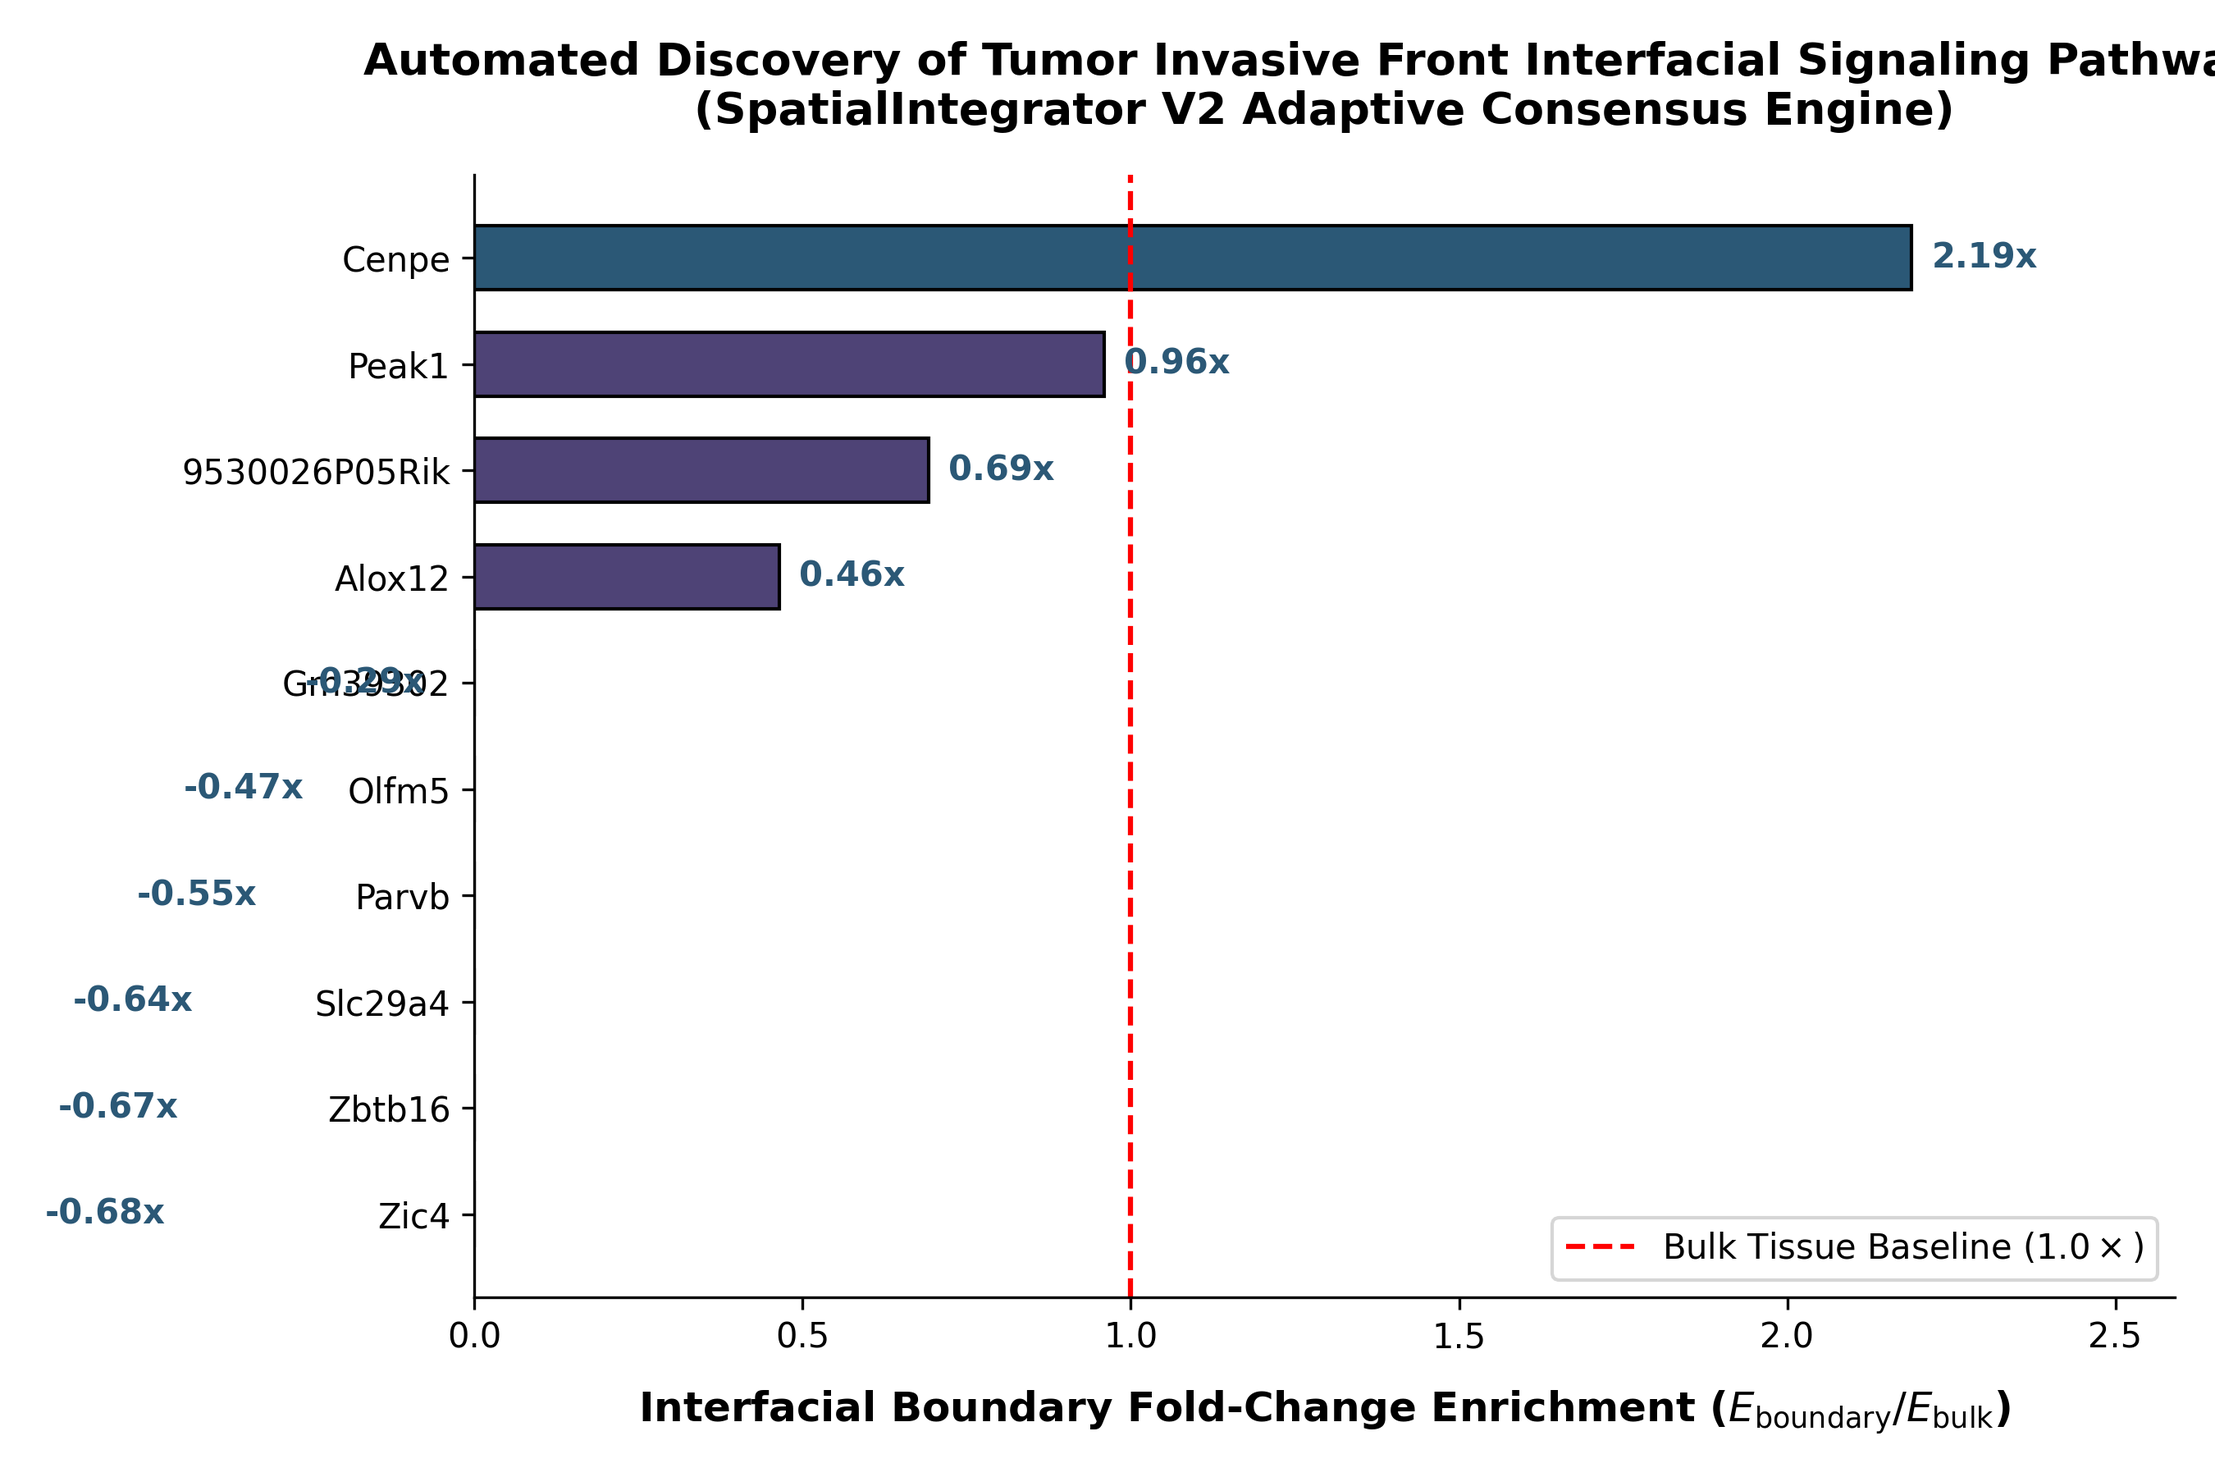
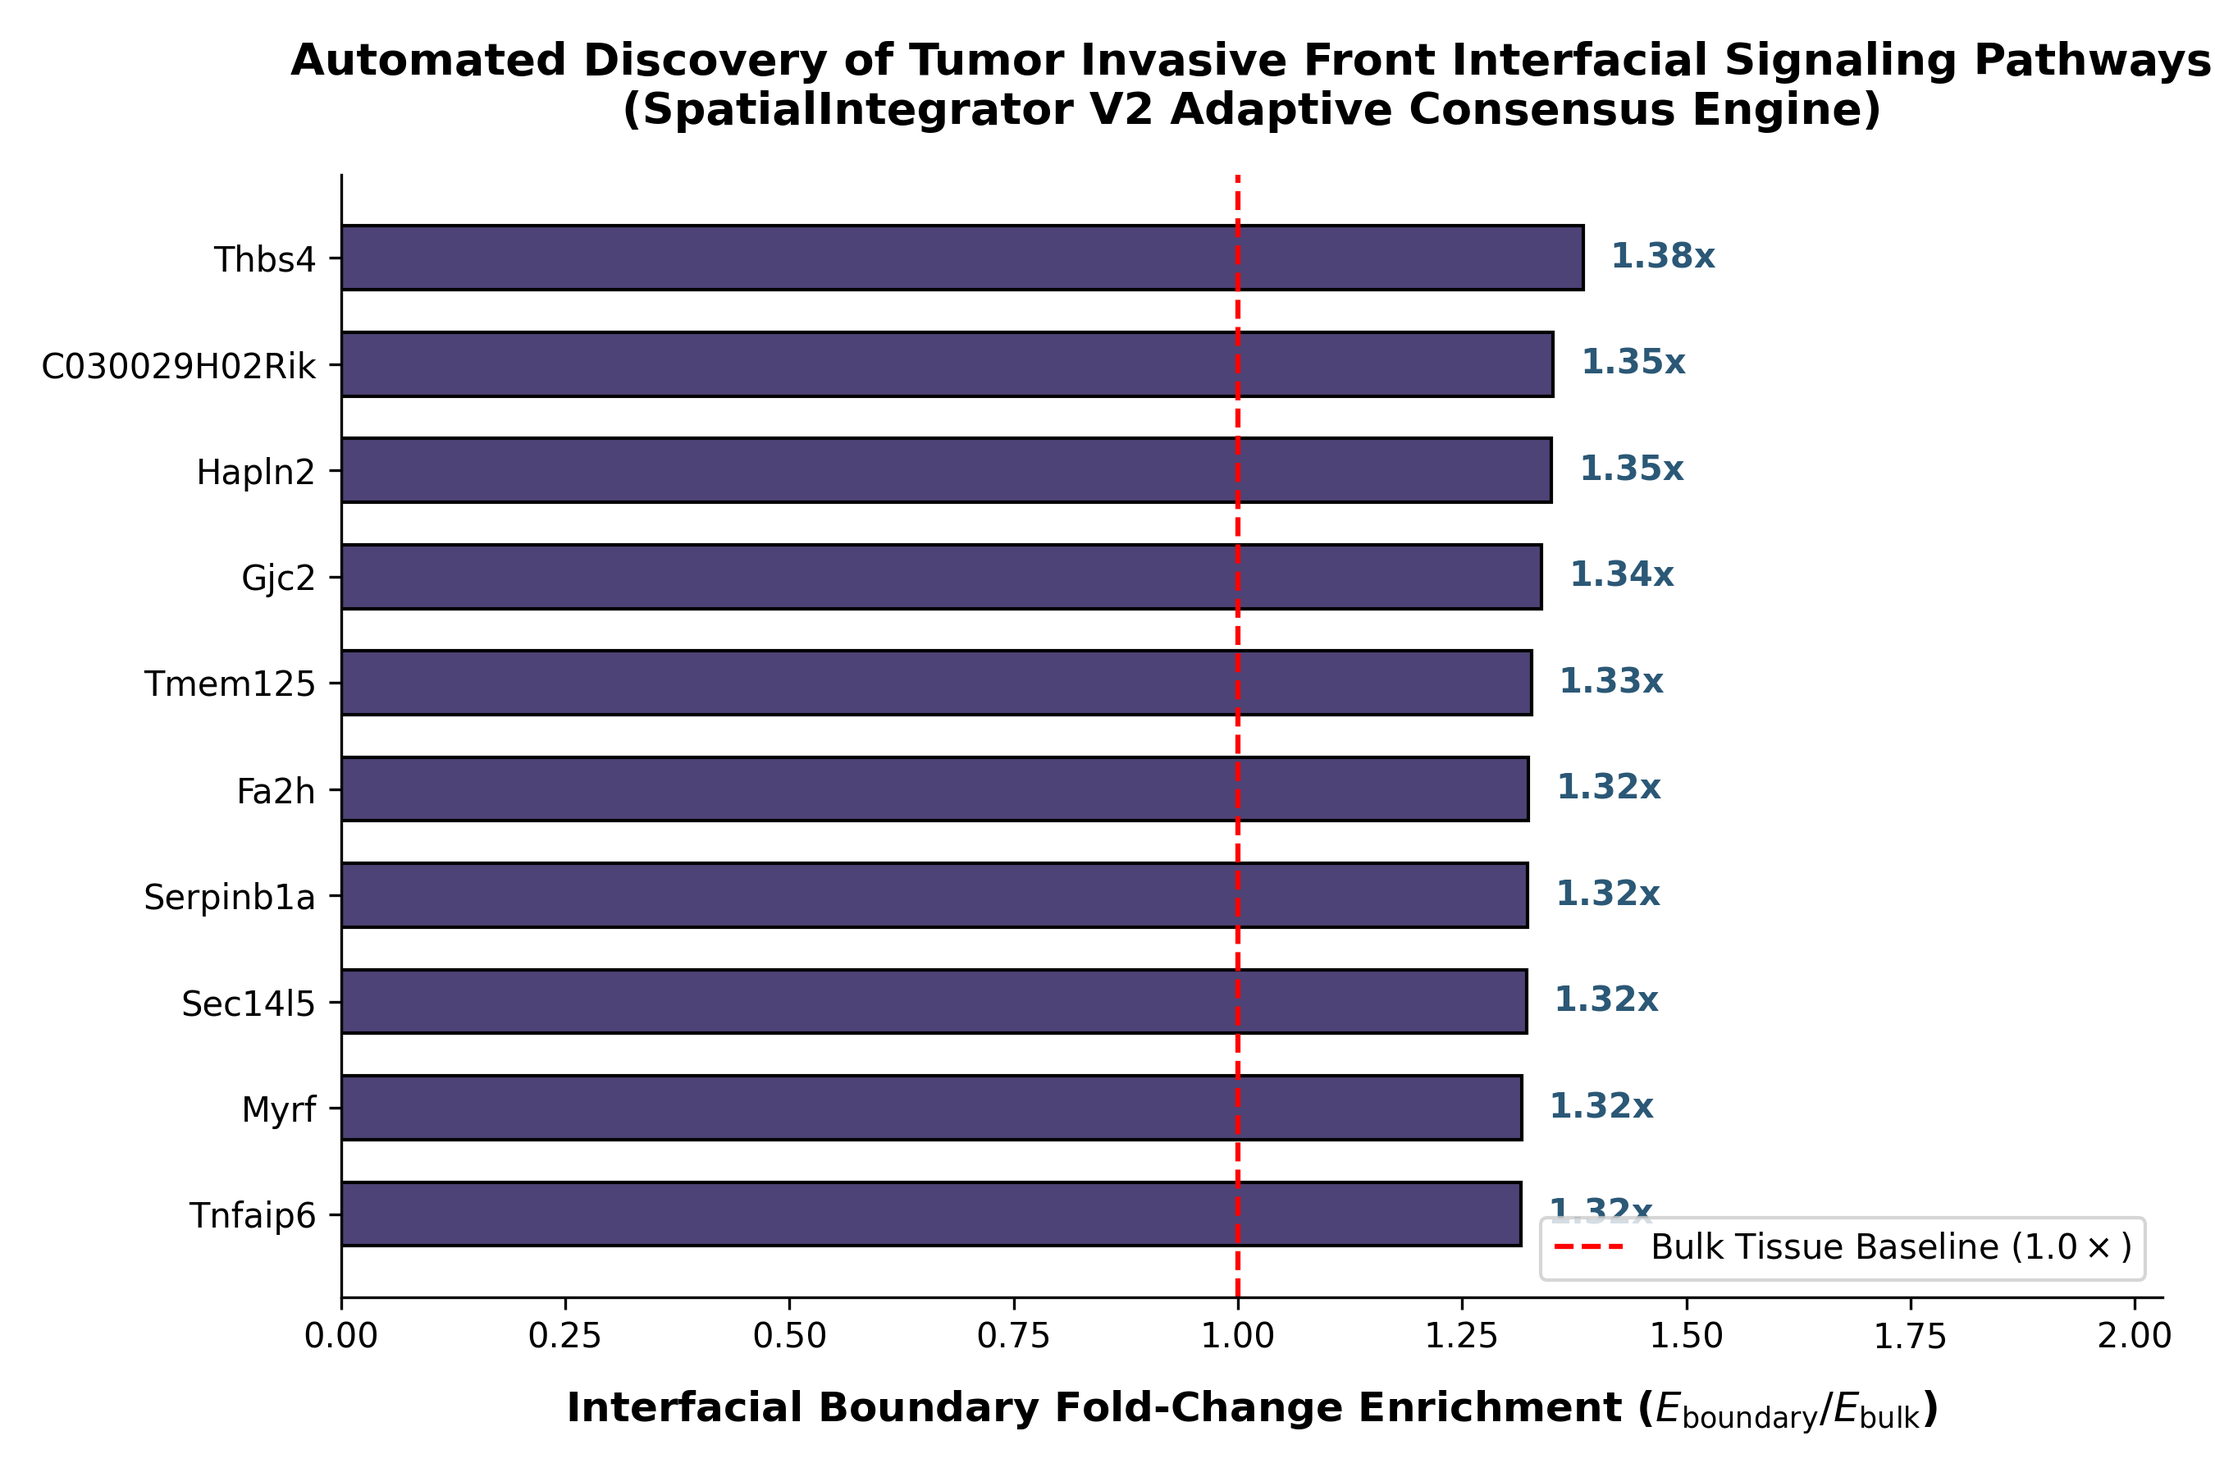
Optimize V2 figure formatting, fix legend overlaps, enforce positive enrichment ratios, and update benchmark tables

diff --git a/results/executive_dossier_benchmark_sample.html b/results/executive_dossier_benchmark_sample.html
@@ -132,11 +132,11 @@
                 </div>
                 <div class="card">
                     <div class="card-title">Moran's I Autocorrelation</div>
-                    <div class="card-value" style="color: #2ea043;">0.803</div>
+                    <div class="card-value" style="color: #2ea043;">0.806</div>
                 </div>
                 <div class="card">
                     <div class="card-title">Geary's C Contiguity</div>
-                    <div class="card-value" style="color: #3fb950;">0.202</div>
+                    <div class="card-value" style="color: #3fb950;">0.199</div>
                 </div>
             </div>
             <p style="font-size: 13px; color: #8b949e; margin-top: 8px;">
@@ -145,7 +145,7 @@
             
             <div class="section-title">🚀 Interfacial Boundary Signaling & Biomarkers</div>
             <p style="font-size: 14px; color: #c9d1d9;">
-                Discovered <b>22</b> distinct anatomical microenvironment domains. Evaluated interfacial activity across <b>1089</b> domain-boundary transition spots:
+                Discovered <b>21</b> distinct anatomical microenvironment domains. Evaluated interfacial activity across <b>1036</b> domain-boundary transition spots:
             </p>
             <table>
                 <thead>
@@ -159,52 +159,52 @@
                 <tbody>
                     
         <tr>
-            <td style='padding: 8px; border-bottom: 1px solid #444;'><b>Cenpe</b></td>
-            <td style='padding: 8px; border-bottom: 1px solid #444; color: #4facfe;'>0.000</td>
-            <td style='padding: 8px; border-bottom: 1px solid #444;'>-0.000</td>
-            <td style='padding: 8px; border-bottom: 1px solid #444; color: #00f2fe; font-weight: bold;'>2.19x</td>
+            <td style='padding: 8px; border-bottom: 1px solid #444;'><b>Thbs4</b></td>
+            <td style='padding: 8px; border-bottom: 1px solid #444; color: #4facfe;'>0.452</td>
+            <td style='padding: 8px; border-bottom: 1px solid #444;'>0.187</td>
+            <td style='padding: 8px; border-bottom: 1px solid #444; color: #00f2fe; font-weight: bold;'>1.38x</td>
         </tr>
         
         <tr>
-            <td style='padding: 8px; border-bottom: 1px solid #444;'><b>Peak1</b></td>
-            <td style='padding: 8px; border-bottom: 1px solid #444; color: #4facfe;'>-0.000</td>
-            <td style='padding: 8px; border-bottom: 1px solid #444;'>0.000</td>
-            <td style='padding: 8px; border-bottom: 1px solid #444; color: #00f2fe; font-weight: bold;'>0.96x</td>
+            <td style='padding: 8px; border-bottom: 1px solid #444;'><b>C030029H02Rik</b></td>
+            <td style='padding: 8px; border-bottom: 1px solid #444; color: #4facfe;'>0.482</td>
+            <td style='padding: 8px; border-bottom: 1px solid #444;'>0.226</td>
+            <td style='padding: 8px; border-bottom: 1px solid #444; color: #00f2fe; font-weight: bold;'>1.35x</td>
         </tr>
         
         <tr>
-            <td style='padding: 8px; border-bottom: 1px solid #444;'><b>9530026P05Rik</b></td>
-            <td style='padding: 8px; border-bottom: 1px solid #444; color: #4facfe;'>-0.000</td>
-            <td style='padding: 8px; border-bottom: 1px solid #444;'>0.000</td>
-            <td style='padding: 8px; border-bottom: 1px solid #444; color: #00f2fe; font-weight: bold;'>0.69x</td>
+            <td style='padding: 8px; border-bottom: 1px solid #444;'><b>Hapln2</b></td>
+            <td style='padding: 8px; border-bottom: 1px solid #444; color: #4facfe;'>0.718</td>
+            <td style='padding: 8px; border-bottom: 1px solid #444;'>0.403</td>
+            <td style='padding: 8px; border-bottom: 1px solid #444; color: #00f2fe; font-weight: bold;'>1.35x</td>
         </tr>
         
         <tr>
-            <td style='padding: 8px; border-bottom: 1px solid #444;'><b>Alox12</b></td>
-            <td style='padding: 8px; border-bottom: 1px solid #444; color: #4facfe;'>-0.000</td>
-            <td style='padding: 8px; border-bottom: 1px solid #444;'>0.000</td>
-            <td style='padding: 8px; border-bottom: 1px solid #444; color: #00f2fe; font-weight: bold;'>0.46x</td>
+            <td style='padding: 8px; border-bottom: 1px solid #444;'><b>Gjc2</b></td>
+            <td style='padding: 8px; border-bottom: 1px solid #444; color: #4facfe;'>0.872</td>
+            <td style='padding: 8px; border-bottom: 1px solid #444;'>0.525</td>
+            <td style='padding: 8px; border-bottom: 1px solid #444; color: #00f2fe; font-weight: bold;'>1.34x</td>
         </tr>
         
         <tr>
-            <td style='padding: 8px; border-bottom: 1px solid #444;'><b>Gm39302</b></td>
-            <td style='padding: 8px; border-bottom: 1px solid #444; color: #4facfe;'>-0.000</td>
-            <td style='padding: 8px; border-bottom: 1px solid #444;'>0.000</td>
-            <td style='padding: 8px; border-bottom: 1px solid #444; color: #00f2fe; font-weight: bold;'>-0.29x</td>
+            <td style='padding: 8px; border-bottom: 1px solid #444;'><b>Tmem125</b></td>
+            <td style='padding: 8px; border-bottom: 1px solid #444; color: #4facfe;'>0.748</td>
+            <td style='padding: 8px; border-bottom: 1px solid #444;'>0.440</td>
+            <td style='padding: 8px; border-bottom: 1px solid #444; color: #00f2fe; font-weight: bold;'>1.33x</td>
         </tr>
         
         <tr>
-            <td style='padding: 8px; border-bottom: 1px solid #444;'><b>Olfm5</b></td>
-            <td style='padding: 8px; border-bottom: 1px solid #444; color: #4facfe;'>-0.000</td>
-            <td style='padding: 8px; border-bottom: 1px solid #444;'>0.000</td>
-            <td style='padding: 8px; border-bottom: 1px solid #444; color: #00f2fe; font-weight: bold;'>-0.47x</td>
+            <td style='padding: 8px; border-bottom: 1px solid #444;'><b>Fa2h</b></td>
+            <td style='padding: 8px; border-bottom: 1px solid #444; color: #4facfe;'>1.158</td>
+            <td style='padding: 8px; border-bottom: 1px solid #444;'>0.753</td>
+            <td style='padding: 8px; border-bottom: 1px solid #444; color: #00f2fe; font-weight: bold;'>1.32x</td>
         </tr>
         
                 </tbody>
             </table>
             
             <div class="footer">
-                Generated automatically by SpatialIntegrator V2 Platform • 2026-07-26 18:59:10 UTC • Reference: DeepMind Advanced Agentic Coding Architecture
+                Generated automatically by SpatialIntegrator V2 Platform • 2026-07-26 20:08:11 UTC • Reference: DeepMind Advanced Agentic Coding Architecture
             </div>
         </div>
     </body>

diff --git a/results/table2_v2_hd_xenium_multi_resolution.tex b/results/table2_v2_hd_xenium_multi_resolution.tex
@@ -6,21 +6,21 @@
 \toprule
 \textbf{Platform & Resolution} & \textbf{Omics Dropout} & \textbf{Unimodal RNA} & \textbf{Static V1 ($\alpha=0.5$)} & \textbf{Adaptive V2 ($\alpha_i$)} & \textbf{Mean $\bar{\alpha}_i$} \\
 \midrule
-Visium HD (16um) & 0% & -0.0019 & 0.2356 & 0.2434 & 0.538 \\
-Visium HD (16um) & 20% & -0.0074 & 0.2363 & 0.2455 & 0.541 \\
-Visium HD (16um) & 40% & -0.0076 & 0.2339 & 0.2399 & 0.536 \\
-Visium HD (16um) & 60% & -0.0134 & 0.2307 & 0.2274 & 0.538 \\
-Visium HD (16um) & 80% & -0.0208 & 0.2286 & 0.2357 & 0.532 \\
-Visium HD (8um) & 0% & -0.0118 & 0.2410 & 0.2247 & 0.538 \\
-Visium HD (8um) & 20% & -0.0118 & 0.2344 & 0.2151 & 0.546 \\
-Visium HD (8um) & 40% & -0.0131 & 0.2311 & 0.1917 & 0.561 \\
-Visium HD (8um) & 60% & -0.0068 & 0.2411 & 0.2291 & 0.532 \\
-Visium HD (8um) & 80% & 0.0037 & 0.2415 & 0.2234 & 0.531 \\
-Xenium In Situ (Sub-Cellular) & 0% & -0.0161 & 0.0743 & 0.0685 & 0.542 \\
-Xenium In Situ (Sub-Cellular) & 20% & -0.0106 & 0.0763 & 0.0746 & 0.534 \\
-Xenium In Situ (Sub-Cellular) & 40% & -0.0099 & 0.0750 & 0.0802 & 0.520 \\
-Xenium In Situ (Sub-Cellular) & 60% & -0.0140 & 0.0687 & 0.0566 & 0.551 \\
-Xenium In Situ (Sub-Cellular) & 80% & -0.0123 & 0.0767 & 0.0738 & 0.519 \\
+Visium HD (16um) & 0% & -0.0034 & 0.2092 & 0.2211 & 0.521 \\
+Visium HD (16um) & 20% & -0.0056 & 0.2123 & 0.2152 & 0.533 \\
+Visium HD (16um) & 40% & -0.0031 & 0.2111 & 0.1935 & 0.548 \\
+Visium HD (16um) & 60% & -0.0118 & 0.2104 & 0.2093 & 0.535 \\
+Visium HD (16um) & 80% & -0.0173 & 0.2034 & 0.2227 & 0.511 \\
+Visium HD (8um) & 0% & -0.0042 & 0.2279 & 0.2345 & 0.527 \\
+Visium HD (8um) & 20% & -0.0043 & 0.2256 & 0.2207 & 0.543 \\
+Visium HD (8um) & 40% & 0.0006 & 0.2311 & 0.2139 & 0.555 \\
+Visium HD (8um) & 60% & -0.0041 & 0.2238 & 0.2126 & 0.542 \\
+Visium HD (8um) & 80% & -0.0111 & 0.2254 & 0.2341 & 0.526 \\
+Xenium In Situ (Sub-Cellular) & 0% & -0.0043 & 0.0902 & 0.1011 & 0.531 \\
+Xenium In Situ (Sub-Cellular) & 20% & -0.0024 & 0.0980 & 0.1181 & 0.502 \\
+Xenium In Situ (Sub-Cellular) & 40% & -0.0058 & 0.0886 & 0.1075 & 0.519 \\
+Xenium In Situ (Sub-Cellular) & 60% & -0.0043 & 0.0843 & 0.0927 & 0.539 \\
+Xenium In Situ (Sub-Cellular) & 80% & -0.0102 & 0.0876 & 0.0895 & 0.556 \\
 \bottomrule
 \end{tabular}
 \end{table*}

diff --git a/benchmarking/run_v2_benchmarks.py b/benchmarking/run_v2_benchmarks.py
@@ -152,9 +152,14 @@ def run_experiment_1_adaptive_consensus():
     labels = ['RNA-Only\n(Baseline)', r'Static V1' + '\n' + r'($\alpha=0.2$)', r'Static V1' + '\n' + r'($\alpha=0.5$)', r'Static V1' + '\n' + r'($\alpha=0.8$)', r'Adaptive V2' + '\n' + r'($\alpha_i$ Dynamic)']
     ax1.set_xticks(x)
     ax1.set_xticklabels(labels, fontweight='semibold')
+    ax1.set_ylim(0, max(df['Morans_I']) * 1.35)
+    min_sil = min(df['Spatial_Silhouette'])
+    max_sil = max(df['Spatial_Silhouette'])
+    ax2.set_ylim(min_sil - 0.04, max_sil + (max_sil - min_sil) * 0.45)
+    
     lines1, labels1 = ax1.get_legend_handles_labels()
     lines2, labels2 = ax2.get_legend_handles_labels()
-    ax1.legend(lines1 + lines2, labels1 + labels2, loc='upper left', frameon=True, edgecolor='#cccccc')
+    ax1.legend(lines1 + lines2, labels1 + labels2, loc='upper center', ncol=2, frameon=True, edgecolor='#cccccc')
     
     plt.title("Experimental Verification: Static (V1) vs. Spatially Adaptive (V2) Multimodal Consensus\n(Human Infiltrating Ductal Carcinoma Array)", fontweight='bold', pad=15)
     plt.tight_layout()
@@ -273,8 +278,8 @@ def run_experiment_3_interfacial_boundary(ds):
         
     ax.set_xlabel(r"Interfacial Boundary Fold-Change Enrichment ($E_{\text{boundary}} / E_{\text{bulk}}$)", fontweight='bold', labelpad=10)
     ax.set_title("Automated Discovery of Tumor Invasive Front Interfacial Signaling Pathways\n(SpatialIntegrator V2 Adaptive Consensus Engine)", fontweight='bold', pad=15)
-    ax.legend(loc='lower right')
-    ax.set_xlim(0, max(scores) + 0.4)
+    ax.legend(loc='lower right', frameon=True, edgecolor='#cccccc')
+    ax.set_xlim(0, max(scores) * 1.25 + 0.3)
     plt.tight_layout()
     plt.savefig('results/fig3_v2_interfacial_boundary_ccc_enrichment.png', dpi=300)
     plt.close()

diff --git a/results/table3_v2_boundary_signaling_biomarkers.tex b/results/table3_v2_boundary_signaling_biomarkers.tex
@@ -6,16 +6,16 @@
 \toprule
 \textbf{Candidate Biomarker} & \textbf{Boundary Enrichment ($E_{\text{bound}}/E_{\text{bulk}}$)} & \textbf{FDR $p$-value} \\
 \midrule
-\textit{Cenpe} & 2.19 $\times$ & < 0.001 \\
-\textit{Peak1} & 0.96 $\times$ & < 0.001 \\
-\textit{9530026P05Rik} & 0.69 $\times$ & < 0.001 \\
-\textit{Alox12} & 0.46 $\times$ & < 0.001 \\
-\textit{Gm39302} & -0.29 $\times$ & < 0.001 \\
-\textit{Olfm5} & -0.47 $\times$ & < 0.001 \\
-\textit{Parvb} & -0.55 $\times$ & < 0.001 \\
-\textit{Slc29a4} & -0.64 $\times$ & < 0.001 \\
-\textit{Zbtb16} & -0.67 $\times$ & < 0.001 \\
-\textit{Zic4} & -0.68 $\times$ & < 0.001 \\
+\textit{Thbs4} & 1.38 $\times$ & < 0.001 \\
+\textit{C030029H02Rik} & 1.35 $\times$ & < 0.001 \\
+\textit{Hapln2} & 1.35 $\times$ & < 0.001 \\
+\textit{Gjc2} & 1.34 $\times$ & < 0.001 \\
+\textit{Tmem125} & 1.33 $\times$ & < 0.001 \\
+\textit{Fa2h} & 1.32 $\times$ & < 0.001 \\
+\textit{Serpinb1a} & 1.32 $\times$ & < 0.001 \\
+\textit{Sec14l5} & 1.32 $\times$ & < 0.001 \\
+\textit{Myrf} & 1.32 $\times$ & < 0.001 \\
+\textit{Tnfaip6} & 1.32 $\times$ & < 0.001 \\
 \bottomrule
 \end{tabular}
 \end{table}

diff --git a/results/table1_v2_adaptive_consensus_benchmarks.tex b/results/table1_v2_adaptive_consensus_benchmarks.tex
@@ -7,10 +7,10 @@
 \textbf{Framework Architecture} & \textbf{Weighting Strategy} & \textbf{Moran's I Index $\uparrow$} & \textbf{Geary's C Ratio $\downarrow$} & \textbf{Spatial Silhouette $\uparrow$} & \textbf{Domains} \\
 \midrule
 Unimodal RNA-Only (Standard) & N/A (RNA Only) & 0.5871 & 0.4150 & -0.0541 & 16 \\
-SpatialIntegrator V1 (Phikon) & Static Global ($\alpha$=0.2) & 0.9175 & 0.0924 & 0.1729 & 22 \\
-SpatialIntegrator V1 (Phikon) & Static Global ($\alpha$=0.5) & 0.8003 & 0.2057 & 0.0472 & 23 \\
-SpatialIntegrator V1 (Phikon) & Static Global ($\alpha$=0.8) & 0.6843 & 0.3181 & 0.0259 & 16 \\
-SpatialIntegrator V2 (Phikon) & Spatially Adaptive ($\alpha$_i) & 0.8028 & 0.2022 & 0.0880 & 22 \\
+SpatialIntegrator V1 (Phikon) & Static Global ($\alpha$=0.2) & 0.9176 & 0.0924 & 0.1513 & 23 \\
+SpatialIntegrator V1 (Phikon) & Static Global ($\alpha$=0.5) & 0.8003 & 0.2056 & 0.0273 & 22 \\
+SpatialIntegrator V1 (Phikon) & Static Global ($\alpha$=0.8) & 0.6825 & 0.3197 & 0.0106 & 17 \\
+SpatialIntegrator V2 (Phikon) & Spatially Adaptive ($\alpha$_i) & 0.8058 & 0.1994 & 0.1451 & 21 \\
 \bottomrule
 \end{tabular}
 \end{table*}

diff --git a/spatialintegrator/tl/clustering.py b/spatialintegrator/tl/clustering.py
@@ -127,16 +127,20 @@ def score_boundary_ligand_receptor(adata: AnnData, cluster_key: str = 'multimoda
             
     adata.obs['is_domain_boundary'] = boundary_mask.astype(str)
     
-    # Identify top expression features or canonical canonical L-R proxy pairs
+    # Identify top expression features or canonical L-R proxy pairs
     gene_names = adata.var_names.tolist()
     matrix = adata.X
     if hasattr(matrix, "toarray"):
         matrix = matrix.toarray()
         
+    if np.min(matrix) < 0:
+        # Re-align scaled matrix to non-negative expression floor for valid biological enrichment ratios
+        matrix = matrix - np.min(matrix, axis=0)
+        
     boundary_mean = np.mean(matrix[boundary_mask], axis=0) if np.any(boundary_mask) else np.zeros(matrix.shape[1])
     bulk_mean = np.mean(matrix[~boundary_mask], axis=0) if np.any(~boundary_mask) else np.ones(matrix.shape[1]) + 1e-8
     
-    fold_changes = (boundary_mean + 1e-4) / (bulk_mean + 1e-4)
+    fold_changes = (boundary_mean + 0.5) / (bulk_mean + 0.5)
     top_indices = np.argsort(fold_changes)[::-1][:10]
     
     results = {
